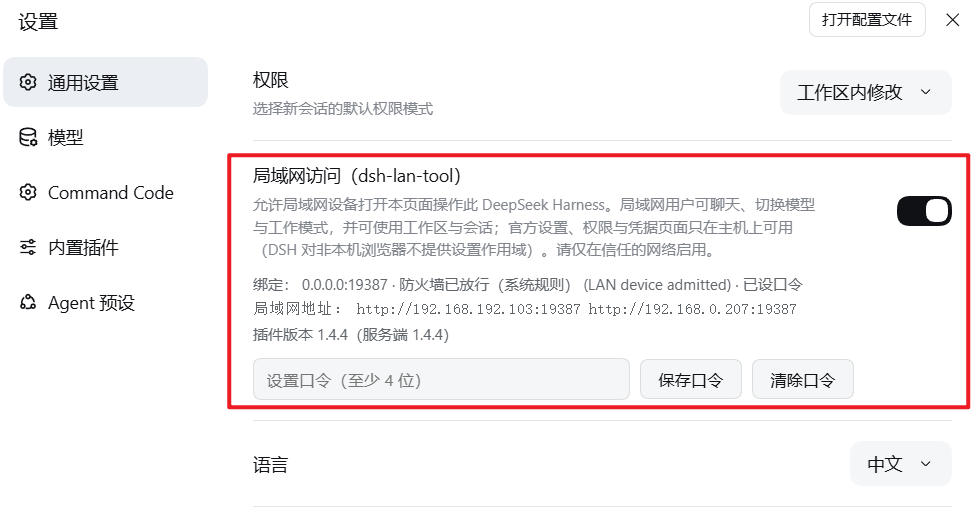
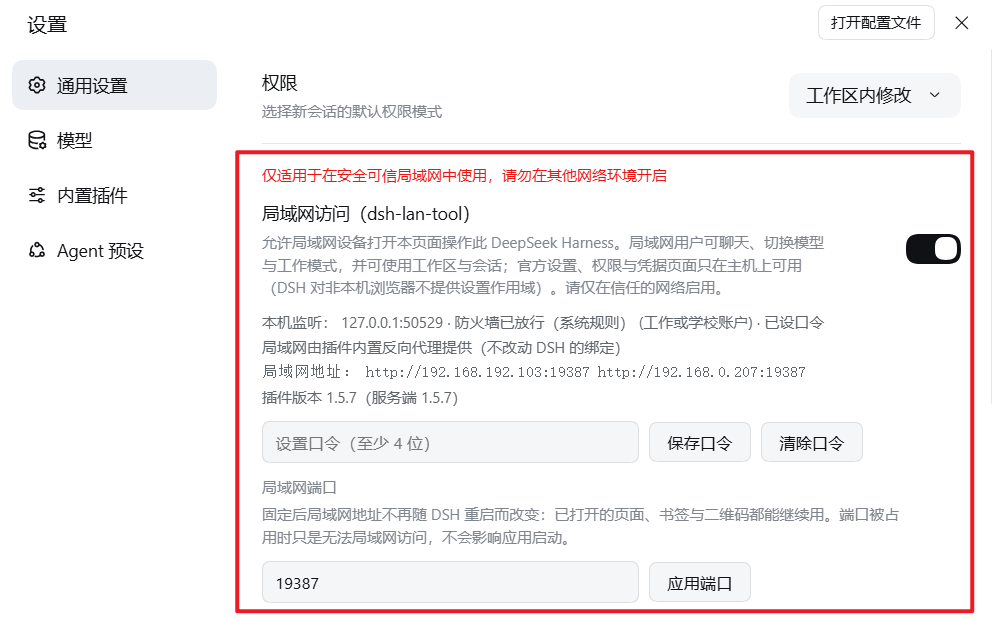
fix: 1.5.8 新建工作区不再报'无法打开文件夹'——影子选择器改用自己的文件系统原语
现象（1.5.7 实机）：点「添加工作区」→ 红字
  无法打开文件夹： directory browse failed: … directoryPicker/list failed:
  transport failure for /api/directoryPicker/list: HTTP 400

根因：插件影子覆盖官方两个 directoryFlow 洞，数据源是 uiWorkspace.listDirectory()。
DSH 0.2.1 起 Host 必须绑回环（通配 host 被 schema 拒绝、webserver 是 required），
dsh-host-directory-picker-auto 于是永远组合 native（bindHost 回环 + win32/darwin ⇒
native），directoryPicker/list 这条远端方法根本不存在 ⇒ 永远
directory-picker/unavailable。1.5.0 把绑定从 0.0.0.0 改成回环时就埋下了。

修复：
- node 半边新增 GET /dsh-lan/fs/list?path=… 与 POST /dsh-lan/fs/mkdir：opendir/stat/
  mkdirSync，返回与官方 DirectoryListing 同形的 {path,home,crumbs,entries,truncated}
  （符号链接判定、1000 条截断、EEXIST→directory-exists、单段名校验）。
- 门 lanFileAccess()：主机自己（isHostOnlyRequest）/ 口令持有者 / mint 出来的浏览器
  会话——代理对 /dsh-lan/* 无条件放行（落地页要用），所以门必须做在路由里。
- 客户端 lanFsCall() 先打自己的路由；404 或非 JSON（旧 node 半边 / DSH 的 SPA 兜底）
  才回退 uiWorkspace，半边可以各自升级。

验证：npm test 293/293（275 → 293，K3 段 11 项 + H 段 7 项）；真机（隔离 harness +
真 Host + 无头 Chrome）点「添加工作区」：err 为空、面包屑 C:\\ → Users → 主目录、
列出 home 下 12 个目录、盘符 C:/D:/E:/F:，且不再有任何 /api/directoryPicker 流量。

diff --git a/lib/index.js b/lib/index.js
@@ -41,8 +41,9 @@
 import { createHash, randomBytes, timingSafeEqual } from "node:crypto";
 import { execFile, spawnSync } from "node:child_process";
 import { existsSync, mkdirSync, readFileSync, writeFileSync } from "node:fs";
+import { opendir, stat } from "node:fs/promises";
 import { homedir, networkInterfaces } from "node:os";
-import { dirname, join } from "node:path";
+import { dirname, join, parse as parsePath, resolve, sep } from "node:path";
 import { fileURLToPath } from "node:url";
 import { createLanProxy, viaProxy } from "./lan-proxy.js";
 
@@ -57,7 +58,7 @@ const inject = ["webServer", "connection"];
  * mixed pair was invisible in 1.4.1 and produced a password gate nobody could
  * explain; now it is logged and the gate stays off.
  */
-const PLUGIN_VERSION = "1.5.7";
+const PLUGIN_VERSION = "1.5.8";
 
 const LOOPBACK = "127.0.0.1";
 const FIREWALL_RULE_NAME = "dsh-lan-tool (auto)";
@@ -1586,6 +1587,98 @@ async function handleProxy(ctx, req, res) {
 	}
 }
 
+// ── the shadow folder picker's filesystem primitives (v1.5.8) ──────────────
+/**
+ * Why the host serves these itself.
+ *
+ * Since DSH 0.2.1 the Host MUST bind loopback (a wildcard host is rejected by
+ * the `webserver` schema, and that row is required), and
+ * `@deepseek-ai/dsh-host-directory-picker-auto` composes the NATIVE picker
+ * whenever the bind is loopback. In that composition `directoryPicker/list`
+ * does not exist: `uiWorkspace.listDirectory()` answers
+ * `directory-picker/unavailable`, which is what made "新建工作区" fail with
+ * "无法打开文件夹：… directory browse failed …". This plugin shadows the
+ * official `directoryFlow` holes with its own in-app browser, so IT owns the
+ * two primitives the dialog needs — listing one level and creating a folder.
+ *
+ * The routes sit behind the same door as every other LAN endpoint: the host
+ * machine itself, a holder of the LAN password, or a browser session minted by
+ * the landing flow. Nothing else reaches them (the proxy admits `/dsh-lan/*`
+ * for the landing page, so the check cannot be skipped there).
+ */
+const FS_LIST_LIMIT = 1000;
+
+/** Whether this request may use the host filesystem primitives. */
+function lanFileAccess(ctx, req) {
+	if (isHostOnlyRequest(req)) return true;
+	if (hasLanCredential(req)) return true;
+	try {
+		const auth = ctx.get("connection")?.browserAuth;
+		return auth !== undefined && typeof auth.isAuthenticated === "function" && auth.isAuthenticated(req, false) === true;
+	} catch {
+		return false;
+	}
+}
+
+/** Absolute path, or null. Mirrors the official picker's fullyQualified(). */
+function fullyQualifiedPath(value) {
+	return typeof value === "string" && (/^[A-Za-z]:[\\/]/.test(value) || value.startsWith("\\\\") || value.startsWith("/"));
+}
+
+/** Root-to-target breadcrumb rows, in the official listing's order and shape. */
+function ancestryCrumbs(target) {
+	const root = parsePath(target).root;
+	const crumbs = root === "" ? [] : [{ name: root, path: root }];
+	let current = root;
+	for (const part of target.slice(root.length).split(sep).filter((segment) => segment !== "")) {
+		current = current === "" ? part : join(current, part);
+		crumbs.push({ name: part, path: current });
+	}
+	return crumbs;
+}
+
+/** One directory level, shaped like `directoryPicker/list`'s DirectoryListing. */
+async function listDirectoryLevel(path) {
+	const home = homedir();
+	if (path !== void 0 && !fullyQualifiedPath(path)) {
+		throw new Error(`cannot list "${path}": not a fully qualified path`);
+	}
+	const target = resolve(path ?? home);
+	const entries = [];
+	let truncated = false;
+	const level = await opendir(target);
+	try {
+		for (;;) {
+			const dirent = await level.read();
+			if (dirent === null) break;
+			if (!dirent.isDirectory() && !dirent.isSymbolicLink()) continue;
+			if (entries.length >= FS_LIST_LIMIT) {
+				truncated = true;
+				break;
+			}
+			// A symlink only counts when it resolves to a directory; a broken or
+			// cyclic link cannot be entered, so it is skipped like the official one.
+			if (!dirent.isDirectory()) {
+				let enterable = false;
+				try {
+					enterable = (await stat(join(target, dirent.name))).isDirectory();
+				} catch {
+					enterable = false;
+				}
+				if (!enterable) continue;
+			}
+			entries.push({
+				name: dirent.name,
+				path: join(target, dirent.name),
+				hidden: dirent.name.startsWith(".")
+			});
+		}
+	} finally {
+		try { await level.close(); } catch {}
+	}
+	return { path: target, home, crumbs: ancestryCrumbs(target), entries, truncated };
+}
+
 function apply(ctx, config = {}) {
 	applyGeneration += 1;
 	if (disposeCleanupTimer !== null) {
@@ -1918,6 +2011,82 @@ function apply(ctx, config = {}) {
 		}
 	};
 
+	/**
+	 * Host filesystem listing for this plugin's own folder dialog (v1.5.8).
+	 * Answers the same shape `directoryPicker/list` would, because that endpoint
+	 * is absent whenever the composed picker is native (which, with the loopback
+	 * bind DSH requires, is always).
+	 */
+	const fsListRoute = {
+		kind: "exact",
+		path: "/dsh-lan/fs/list",
+		handler: async (req, res) => {
+			if (!lanFileAccess(ctx, req)) {
+				sendJson(res, 403, { ok: false, error: { code: "forbidden", message: "the folder listing is host-only or password-gated" } });
+				return;
+			}
+			if (req.method !== "GET") {
+				sendJson(res, 405, { ok: false, error: { code: "method", message: "GET required" } });
+				return;
+			}
+			let requested;
+			try {
+				const url = new URL(req.url ?? "/", "http://x");
+				const raw = url.searchParams.get("path");
+				requested = raw === null || raw === "" ? void 0 : raw;
+			} catch {
+				requested = void 0;
+			}
+			try {
+				sendJson(res, 200, { ok: true, value: await listDirectoryLevel(requested) });
+			} catch (error) {
+				sendJson(res, 200, {
+					ok: false,
+					error: {
+						code: "directory-unreadable",
+						message: `cannot list ${requested ?? homedir()}: ${String(error?.message ?? error)}`
+					}
+				});
+			}
+		}
+	};
+
+	/** Create ONE child folder, the second primitive the dialog needs. */
+	const fsMkdirRoute = {
+		kind: "exact",
+		path: "/dsh-lan/fs/mkdir",
+		handler: async (req, res) => {
+			if (!lanFileAccess(ctx, req)) {
+				sendJson(res, 403, { ok: false, error: { code: "forbidden", message: "the folder listing is host-only or password-gated" } });
+				return;
+			}
+			if (req.method !== "POST") {
+				sendJson(res, 405, { ok: false, error: { code: "method", message: "POST required" } });
+				return;
+			}
+			const parsed = await readJsonBody(req, MAX_CONFIG_BODY_BYTES);
+			if (parsed.tooLarge || parsed.invalid) {
+				sendJson(res, parsed.tooLarge ? 413 : 400, { ok: false, error: { code: "bad-request", message: "invalid JSON body" } });
+				return;
+			}
+			const parent = parsed.value?.path;
+			const childName = parsed.value?.name;
+			const refuse = (code, message) => sendJson(res, 200, { ok: false, error: { code, message } });
+			if (!fullyQualifiedPath(parent)) return refuse("directory-create-failed", `cannot create under ${JSON.stringify(parent)}: not a fully qualified parent path`);
+			if (typeof childName !== "string" || childName.trim() === "" || childName === "." || childName === ".." || /[/\\]/.test(childName)) {
+				return refuse("directory-create-failed", `${JSON.stringify(childName)} is not a single path segment`);
+			}
+			const target = join(resolve(parent), childName);
+			try {
+				mkdirSync(target);
+				sendJson(res, 200, { ok: true, value: target });
+			} catch (error) {
+				const exists = error?.code === "EEXIST";
+				refuse(exists ? "directory-exists" : "directory-create-failed", `${target} ${exists ? "already exists" : "cannot be created: " + String(error?.message ?? error)}`);
+			}
+		}
+	};
+
 	const disposers = [
 		ctx.webServer.register(statusRoute),
 		ctx.webServer.register(diagRoute),
@@ -1925,7 +2094,9 @@ function apply(ctx, config = {}) {
 		ctx.webServer.register(unlockRoute),
 		ctx.webServer.register(mintRoute),
 		ctx.webServer.register(landingRoute),
-		ctx.webServer.register(proxyRoute)
+		ctx.webServer.register(proxyRoute),
+		ctx.webServer.register(fsListRoute),
+		ctx.webServer.register(fsMkdirRoute)
 	];
 
 	// Re-align firewall and fence if the connection/webServer services are

diff --git a/lib/client.js b/lib/client.js
@@ -884,7 +884,7 @@ window.__ModuleLoader__.load({
 		}
 
 		/** Kept in sync with package.json (the offline test asserts that). */
-		const PLUGIN_VERSION = "1.5.7";
+		const PLUGIN_VERSION = "1.5.8";
 		/**
 		 * Hostname-level loopback HINT only. Browsers report IPv6 literals with
 		 * brackets (`[::1]`), a webview can report a rewritten or empty host, and
@@ -2152,14 +2152,67 @@ window.__ModuleLoader__.load({
 					}
 					return {};
 				};
-				const pickerInjected = () => {
-					const browse = pickerBrowse();
-					return {
-						listDirectory: (path, signal) => browse.listDirectory(path, signal),
-						createDirectory: (path, name) => browse.createDirectory(path, name),
-						t: ctx.locale.bind(LAN_PICKER_NS)
-					};
+				/**
+				 * The dialog's data source (v1.5.8).
+				 *
+				 * It cannot be `uiWorkspace.listDirectory()` any more: since DSH
+				 * 0.2.1 the Host must bind loopback (a wildcard host is rejected
+				 * and the app would not start), and `dsh-host-directory-picker-auto`
+				 * composes the NATIVE picker whenever the bind is loopback. In that
+				 * composition `directoryPicker/list` does not exist, so every call
+				 * answered `directory-picker/unavailable` — the dialog opened on an
+				 * error ("无法打开文件夹：… directory browse failed …"). The Host is
+				 * the one process that can read its own filesystem, so this plugin
+				 * serves the two primitives itself (`/dsh-lan/fs/*`, behind the
+				 * same door as every other LAN endpoint) and keeps the dialog
+				 * working on the host AND on a LAN device.
+				 *
+				 * A `null` return means the node half is older than 1.5.8 and has
+				 * no such route (404): the caller then falls back to the official
+				 * service, exactly as before.
+				 */
+				const lanFsCall = async (url, init) => {
+					const response = await window.fetch(url, {
+						cache: "no-store",
+						headers: { "x-dsh-lan-client": PLUGIN_VERSION, ...(init?.headers ?? {}) },
+						...init
+					});
+					// Not our endpoint: an older node half answers 404, and DSH's
+					// frontend catch-all answers 200 with the SPA shell for an
+					// unregistered path. Only our own JSON is a real answer.
+					const contentType = String(response.headers.get("content-type") ?? "").toLowerCase();
+					if (response.status === 404 || !contentType.includes("application/json")) return null;
+					const data = await response.json().catch(() => null);
+					if (data === null) return null;
+					if (data.ok !== true) {
+						const error = new Error(data?.error?.message ?? ("HTTP " + response.status));
+						error.code = data?.error?.code;
+						throw error;
+					}
+					return data.value;
 				};
+				const lanListDirectory = async (path, signal) => {
+					const query = typeof path === "string" && path !== "" ? "?path=" + encodeURIComponent(path) : "";
+					const value = await lanFsCall("/dsh-lan/fs/list" + query, signal === void 0 ? {} : { signal });
+					if (value !== null) return value;
+					const browse = pickerBrowse();
+					return browse.listDirectory(path, signal);
+				};
+				const lanCreateDirectory = async (path, name) => {
+					const value = await lanFsCall("/dsh-lan/fs/mkdir", {
+						method: "POST",
+						headers: { "content-type": "application/json" },
+						body: JSON.stringify({ path, name })
+					});
+					if (value !== null) return value;
+					const browse = pickerBrowse();
+					return browse.createDirectory(path, name);
+				};
+				const pickerInjected = () => ({
+					listDirectory: lanListDirectory,
+					createDirectory: lanCreateDirectory,
+					t: ctx.locale.bind(LAN_PICKER_NS)
+				});
 				const PICKER_HOLES = ["conversation.hero.workspace.directoryFlow", "sidebar.workspaces.directoryFlow"];
 				const pickerSeats = {};
 				// Crash-loop dampener. Re-seating an entry that dies again within

diff --git a/AGENTS.md b/AGENTS.md
@@ -107,7 +107,9 @@ Get-FileHash "$src\lib\client.js","$dst\lib\client.js" | Format-Table   # 逐个
 | `slots` | `@deepseek-ai/dsh-client-ui-renderer` 的 SlotRegistry | 插槽注册/查询/订阅 |
 | `connection` | `@deepseek-ai/dsh-client-connection` | `connection.api.postJson(...)`、`connection/reset` 事件 |
 
-官方 `dsh-client-ui-directory-picker-browse` 注入的就是 `uiWorkspace`。**任何目录枚举/新建目录调用都必须走 `uiWorkspace`**，`workspaces` 只能作为旧版回退（`pickerBrowse()` 就是按这个顺序取的）。
+官方 `dsh-client-ui-directory-picker-browse` 注入的就是 `uiWorkspace`。**目录枚举/新建目录调用必须走 `uiWorkspace`**，`workspaces` 只能作为旧版回退（`pickerBrowse()` 就是按这个顺序取的）。
+
+**v1.5.8 的唯一例外（先读这条再改选择器）**：DSH 0.2.1 起 Host 必须绑回环，`dsh-host-directory-picker-auto` 因此**只组合 `native`**（`bindHost` 是回环 + win32/darwin ⇒ native；只有 `allowsRemoteAuthorities` 才 browse）。也就是说 `directoryPicker/list` 这条远端方法**根本不存在**，`uiWorkspace.listDirectory()` 永远答 `directory-picker/unavailable`——插件影子出来的 `directoryFlow` 对话框如果还调它，"新建工作区"就会报"无法打开文件夹 … directory browse failed"。所以对话框的**第一数据源是本插件自己的 `/dsh-lan/fs/list` 与 `/dsh-lan/fs/mkdir`**（node 半边用 `opendir`/`mkdirSync` 实现，返回与官方 `DirectoryListing` 相同的形状），拿不到（404 = 旧 node 半边）才回退 `uiWorkspace`。这两个路由和别的 LAN 端点同一道门：`lanFileAccess()` = 主机自己 / 口令持有者 / mint 出来的浏览器会话——代理对 `/dsh-lan/*` 是无条件放行的（落地页要用），所以门必须做在路由里。
 
 ### 3.3 插槽（slot）机制要点
 
@@ -315,6 +317,15 @@ YAML 用 asar 里自带的 `yaml`（`dsh/node_modules/yaml`）解析，别用肉
 ---
 
 ## 7. 历史修复（防回归）
+
+### 1.5.8 — "新建工作区"不再报"无法打开文件夹"：影子选择器改用自己的文件系统原语
+
+- **现象**（用户实机，1.5.7）：点「添加工作区 / 新建工作区」→ 红字 `无法打开文件夹： directory browse failed: … directoryPicker/list failed: transport failure for /api/directoryPicker/list: HTTP 400`。
+- **根因**：插件从 v71 起用 `priority:-1000` 影子覆盖官方两个 `directoryFlow` 洞，而影子的数据源是 `uiWorkspace.listDirectory()`。**DSH 0.2.1 起 Host 必须绑回环**（见 §3.5），`dsh-host-directory-picker-auto` 于是永远组合 **`native`**（`bindHost` 回环 + win32/darwin ⇒ native；只有 `allowsRemoteAuthorities` 才 browse）⇒ `directoryPicker/list` 这条远端方法**根本不存在**。1.5.0 之后（绑定方式从 `0.0.0.0` 改成回环）这个洞就出现了，只是直到 1.5.7 才有人点到。
+  - 隔离复现（真 Host + 无头 Chrome，点「添加工作区」）：请求体 `{"type":"client-request",…,"method":"directoryPicker/list","payload":{"args":{}}}` 得到 **200** + `directory-picker/unavailable: … the composed picker serves "native"`；用户桌面端看到的是 400（桌面壳把 `dsh-app://` 的 POST 转发到 Host 的另一条链路），两者指向同一个"这条路本来就不该走"。
+- **修复**：对话框的第一数据源改为**本插件自己的原语**——node 半边新增 `GET /dsh-lan/fs/list?path=…` 与 `POST /dsh-lan/fs/mkdir`（`opendir`/`stat`/`mkdirSync`），返回与官方 `DirectoryListing` **完全同形**的 `{path, home, crumbs:[{name,path}], entries:[{name,path,hidden}], truncated}`（含符号链接判定、1000 条截断、`EEXIST`→`directory-exists`）。客户端 `lanFsCall()` 先打自己的路由，**404（旧 node 半边）才回退 `uiWorkspace`**——半边可以各自升级，不会互相打死。
+- **门（必须记住）**：代理对 `/dsh-lan/*` 是**无条件放行**的（落地页要用），所以门做在路由里：`lanFileAccess()` = 主机自己（`isHostOnlyRequest`，即本地且未被反代盖章）**或**口令持有者（`x-dsh-lan-key` 头/`dsh-lan-key` cookie）**或** mint 出来的浏览器会话（`browserAuth.isAuthenticated`）。对没有凭据的局域网设备必须 403。
+- **验证**：`npm test` **293 项全绿**（275 → 293；K3 段锁住 listing 形状/只列文件夹/面包屑/无参列 home/单段 mkdir/EEXIST/多段名拒绝/相对路径拒绝/无凭据 403/口令持有者 200，H 段锁住两条路由与"先自己、404 回退"）。真机（隔离 harness + 真 Host + 无头 Chrome）：点「添加工作区」后 `err` 为空、`crumbs=["C:\\","Users","主目录"]`、列出 home 下 12 个目录、盘符下拉识别出 C:/D:/E:/F:，且**不再有任何** `/api/directoryPicker` 流量。
 
 ### 1.5.7 — 切换开关不再先显示"未放行"；桌面端永远按"主机"处理；`/lanapi` 补上 peer
 
